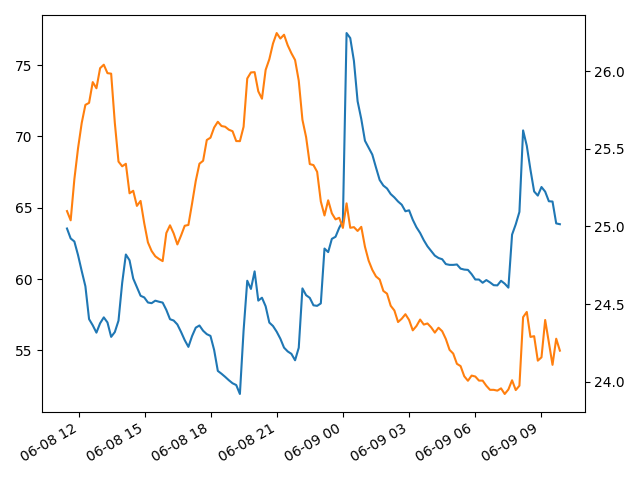
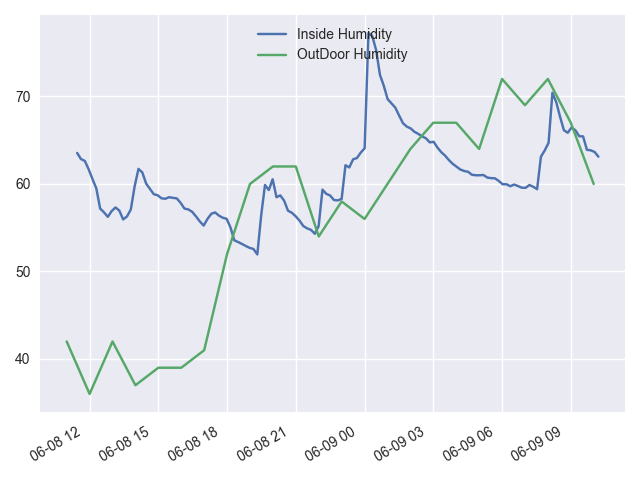
added legends to the figures

diff --git a/RaspPiMat/app.py b/RaspPiMat/app.py
@@ -96,6 +96,7 @@ def data(Data1, Data2, Min, Max):
             if ReqYearMin <= YearH and ReqYearMax >= YearH and ReqMonthMin <= MonthH and ReqMonthMax >= MonthH and ReqDayMin <= DayH and ReqDayMax >= DayH:
                 humidity.append(rawhumidity[Hkeys[i]]['humidity'])
                 timeh.append(rawhumidity[Hkeys[i]]['timestamp'])
+        DataPacket.append('Inside Humidity')
         DataPacket.append(timeh)
         DataPacket.append(humidity)
 
@@ -115,6 +116,7 @@ def data(Data1, Data2, Min, Max):
             if  ReqYearMin <= YearT and ReqYearMax >= YearT and ReqMonthMin <= MonthT and ReqMonthMax >= MonthT and ReqDayMin <= DayT and ReqDayMax >= DayT:
                 temperature.append(rawtemp[Tkeys[i]]['temp'])
                 timet.append(rawtemp[Tkeys[i]]['timestamp'])
+        DataPacket.append('Inside Temperature')
         DataPacket.append(timet)
         DataPacket.append(temperature)
 
@@ -131,6 +133,7 @@ def data(Data1, Data2, Min, Max):
             if  ReqYearMin <= BYear and ReqYearMax >= BYear and ReqMonthMin <= BMonth and ReqMonthMax >= BMonth and ReqDayMin <= BDay and ReqDayMax >= BDay:
                 BrHum.append(BronxInfo[BronxDates[i]]['Humidity'])
                 BrTimeH.append(BronxDates[i])
+        DataPacket.append('OutDoor Humidity')
         DataPacket.append(BrTimeH)
         DataPacket.append(BrHum)
 
@@ -146,6 +149,7 @@ def data(Data1, Data2, Min, Max):
             if  ReqYearMin <= BYear and ReqYearMax >= BYear and ReqMonthMin <= BMonth and ReqMonthMax >= BMonth and ReqDayMin <= BDay and ReqDayMax >= BDay:
                 BrTemp.append(BronxInfo[BronxDates[i]]['Temperature'])
                 BrTimeT.append(BronxDates[i])
+                DataPacket.append('OutDoor Temperature')
                 DataPacket.append(BrTimeT)
                 DataPacket.append(BrTemp)
     return DataPacket
@@ -181,8 +185,9 @@ def plotting(packet, Data1, Data2):
     print('started graphing')
     if Data2 == 'None':
         plt.style.use('seaborn')
-        packet[0] = pd.to_datetime(packet[0])
-        plt.plot_date(packet[0], packet[1], marker='', linestyle='solid')
+        packet[1] = pd.to_datetime(packet[1])
+        plt.plot_date(packet[1], packet[2], marker='', linestyle='solid', label=packet[0])
+        plt.legend(loc='upper left')
         plt.gcf().autofmt_xdate()
         plt.tight_layout()
         plt.savefig('Graph')
@@ -191,22 +196,24 @@ def plotting(packet, Data1, Data2):
         fig = plt.figure()
         ax = fig.add_subplot(111, label='1')
         ax2 = fig.add_subplot(111, label='2', frame_on=False)
-        packet[0] = pd.to_datetime(packet[0])
-        packet[2] = pd.to_datetime(packet[2])
-        ax.plot_date(packet[0], packet[1], marker='', linestyle='solid', color='C0')
-        ax2.plot_date(packet[2], packet[3], marker='', linestyle='solid', color='C1')
+        packet[1] = pd.to_datetime(packet[1])
+        packet[4] = pd.to_datetime(packet[4])
+        ax.plot_date(packet[1], packet[2], marker='', linestyle='solid', color='C0', label=packet[0])
+        ax2.plot_date(packet[4], packet[5], marker='', linestyle='solid', color='C1', label=packet[3])
         ax2.set_xticks([])
         ax2.yaxis.tick_right()
+        fig.legend(loc='upper left')
         plt.gcf().autofmt_xdate()
         fig.tight_layout()
         fig.savefig('Graph')
         fig.clf()
     else:
         plt.style.use('seaborn')
-        packet[0] = pd.to_datetime(packet[0])
-        packet[2] = pd.to_datetime(packet[2])
-        plt.plot_date(packet[0], packet[1], marker='', linestyle='solid')
-        plt.plot_date(packet[2], packet[3], marker='', linestyle='solid')
+        packet[1] = pd.to_datetime(packet[1])
+        packet[4] = pd.to_datetime(packet[4])
+        plt.plot_date(packet[1], packet[2], marker='', linestyle='solid', label=packet[0])
+        plt.plot_date(packet[4], packet[5], marker='', linestyle='solid', label=packet[3])
+        plt.legend(loc='upper left')
         plt.gcf().autofmt_xdate()
         plt.tight_layout()
         plt.savefig('Graph')
